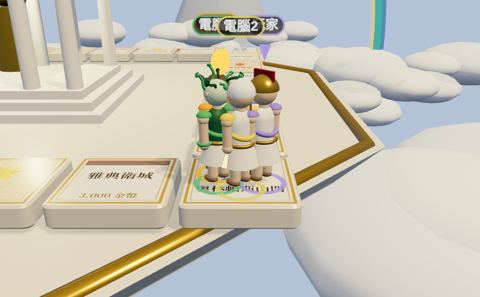
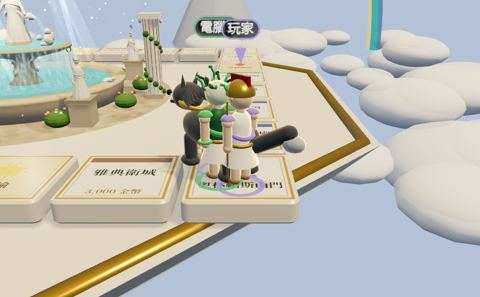
諸神黃昏中央改成噴泉廣場：倒水女神、小天使、雕像群、白鴿、精靈粉塵、光束
Claude-Session: https://claude.ai/code/session_01Nq2RpgbLLAoTqsaarniSan

diff --git a/js/games/mono-art.js b/js/games/mono-art.js
@@ -342,19 +342,124 @@
       for (let k = 0; k < (q.high ? 90 : 45); k++) { const a = rnd(0, 6.28), d = rnd(9, 40); const c = add(new T.SphereGeometry(rnd(1.5, 3.5), 12, 10), cloudM, Math.cos(a) * d, rnd(-4.5, -2.2), Math.sin(a) * d, false); c.scale.y = 0.45; }
       // 遠方神山
       for (let k = 0; k < 7; k++) { const a = k / 7 * Math.PI * 2 + 0.3, d = rnd(34, 42), h = rnd(10, 18); add(new T.ConeGeometry(rnd(5, 8), h, 7), M('#b9c3d6', { roughness: 1 }), Math.cos(a) * d, h / 2 - 4, Math.sin(a) * d, false); add(new T.ConeGeometry(2, 3, 7), M('#ffffff'), Math.cos(a) * d, h - 5.2, Math.sin(a) * d, false); }
-      // 中央：奧林帕斯神殿＋金色神像
-      const marble = M('#f4f0e6', { roughness: 0.3 }), gold = M('#d4af37', { metalness: 0.9, roughness: 0.2 });
-      for (let s = 0; s < 3; s++) add(new T.BoxGeometry(5 - s * 0.5, 0.18, 4 - s * 0.5), marble, 0, -0.27 + s * 0.18, 0);
-      for (let k = 0; k < 10; k++) { const x = -1.8 + (k % 5) * 0.9, z = k < 5 ? -1.3 : 1.3; add(new T.CylinderGeometry(0.15, 0.17, 2.4, 14), marble, x, 1.4, z); }
-      add(new T.BoxGeometry(4.3, 0.25, 3.2), marble, 0, 2.7, 0);
-      const ped = add(new T.CylinderGeometry(0.01, 2.6, 0.9, 4), marble, 0, 3.25, 0); ped.rotation.y = Math.PI / 4; ped.scale.z = 0.62;
-      const st = new T.Group(); st.position.set(0, 0.25, 0); scene.add(st);
-      const body = new T.Mesh(new T.CylinderGeometry(0.28, 0.4, 1.4, 12), gold); body.position.y = 0.8; st.add(body);
-      const head = new T.Mesh(new T.SphereGeometry(0.22, 16, 12), gold); head.position.y = 1.7; st.add(head);
-      const arm = new T.Mesh(new T.CylinderGeometry(0.07, 0.07, 1.0, 8), gold); arm.position.set(0.38, 1.6, 0); arm.rotation.z = -0.5; st.add(arm);
-      const bolt = new T.Mesh(new T.ConeGeometry(0.08, 0.6, 4), new T.MeshBasicMaterial({ color: '#fff4b0' })); bolt.position.set(0.66, 2.15, 0); st.add(bolt);
-      const L = new T.PointLight('#ffe9a8', 12, 9, 1.4); L.position.set(0, 2.3, 0); scene.add(L);
-      upd.push((t) => { L.intensity = 10 + Math.sin(t * 2) * 2; bolt.material.color.setHSL(0.14, 1, 0.75 + Math.sin(t * 6) * 0.1); });
+      // 中央：林間噴泉廣場（女神雕像倒水、小天使、雕像群、白鴿、精靈粉塵）
+      const marble = M('#f3eee2', { roughness: 0.45 }), stone = M('#cbbb9c', { roughness: 0.85 }), aged = M('#a99a7e', { roughness: 0.9 });
+      // 鋪石地＋斑駁光影
+      { const [c, g2] = cvs(512); g2.fillStyle = '#b9ab90'; g2.fillRect(0, 0, 512, 512);
+        for (let r = 0; r < 12; r++) for (let k = 0; k < 6 + r * 6; k++) { const a0 = k / (6 + r * 6) * 6.283, rr = r * 21 + 6; g2.fillStyle = `hsl(38,${rnd(14, 24)}%,${rnd(58, 70)}%)`; g2.beginPath(); g2.arc(256 + Math.cos(a0) * rr, 256 + Math.sin(a0) * rr, rnd(8, 11), 0, 7); g2.fill(); }
+        for (let k = 0; k < 70; k++) { g2.fillStyle = `rgba(255,246,210,${rnd(0.12, 0.3)})`; g2.beginPath(); g2.ellipse(rnd(0, 512), rnd(0, 512), rnd(6, 26), rnd(4, 14), rnd(0, 3), 0, 7); g2.fill(); }
+        for (let k = 0; k < 40; k++) { g2.fillStyle = `rgba(60,70,40,${rnd(0.08, 0.18)})`; g2.beginPath(); g2.ellipse(rnd(0, 512), rnd(0, 512), rnd(10, 40), rnd(6, 20), rnd(0, 3), 0, 7); g2.fill(); }
+        const fl = add(new T.CircleGeometry(3.5, 48), M('#ffffff', { map: tex(T, c), roughness: 0.9 }), 0, -0.36, 0, false); fl.rotation.x = -Math.PI / 2; fl.receiveShadow = q.high; }
+      // 水池：外緣石圈＋青綠水面（水紋會流動）
+      const [wc, wg] = cvs(256); const wt = tex(T, wc, 2); wt.wrapS = wt.wrapT = T.RepeatWrapping;
+      { wg.fillStyle = '#2fb3bf'; wg.fillRect(0, 0, 256, 256); for (let k = 0; k < 160; k++) { wg.strokeStyle = `rgba(210,255,250,${rnd(0.15, 0.45)})`; wg.lineWidth = rnd(1, 2.5); wg.beginPath(); const x = rnd(0, 256), y = rnd(0, 256), r = rnd(6, 20); wg.arc(x, y, r, rnd(0, 3), rnd(3, 6)); wg.stroke(); } wt.needsUpdate = true; }
+      const rimG = new T.LatheGeometry([[2.0, -0.36], [2.25, -0.36], [2.3, -0.05], [2.36, 0.04], [2.36, 0.12], [2.0, 0.12], [2.0, -0.36]].map(([x, y]) => new T.Vector2(x, y)), 64);
+      add(rimG, stone, 0, 0, 0);
+      const pool = add(new T.CircleGeometry(2.02, 48), new T.MeshStandardMaterial({ color: '#ffffff', map: wt, roughness: 0.08, metalness: 0.2, emissive: '#1a8a94', emissiveIntensity: 0.35, transparent: true, opacity: 0.93 }), 0, 0.02, 0, false); pool.rotation.x = -Math.PI / 2;
+      // 中柱＋上層水盆（有雕花托架）
+      const stemG = new T.LatheGeometry([[0, -0.3], [0.5, -0.3], [0.42, 0], [0.26, 0.15], [0.22, 0.5], [0.3, 0.62], [0.95, 0.78], [1.15, 0.86], [1.15, 0.94], [0, 0.94]].map(([x, y]) => new T.Vector2(x, y)), 48);
+      add(stemG, aged, 0, 0, 0);
+      for (let k = 0; k < 4; k++) { const a0 = k / 4 * 6.283 + 0.4; const br = add(new T.TorusGeometry(0.16, 0.05, 8, 12, Math.PI), aged, Math.cos(a0) * 0.36, 0.42, Math.sin(a0) * 0.36); br.rotation.y = -a0; br.rotation.z = Math.PI / 2; }
+      const bowlW = add(new T.CircleGeometry(1.08, 40), new T.MeshStandardMaterial({ color: '#ffffff', map: wt, roughness: 0.08, emissive: '#1a8a94', emissiveIntensity: 0.4 }), 0, 0.95, 0, false); bowlW.rotation.x = -Math.PI / 2;
+      // 雕像：披袍人形
+      const gold = M('#d4af37', { metalness: 0.9, roughness: 0.25 });
+      const figure = (sc, pose) => {
+        const f = new T.Group(); f.scale.setScalar(sc);
+        const robe = new T.Mesh(new T.LatheGeometry([[0.26, 0], [0.24, 0.12], [0.19, 0.42], [0.13, 0.62], [0.15, 0.76], [0.16, 0.88], [0.11, 0.97], [0.05, 1.02]].map(([x, y]) => new T.Vector2(x, y)), 44), marble); f.add(robe);
+        { const pa = robe.geometry.attributes.position; for (let v = 0; v < pa.count; v++) { const x = pa.getX(v), y = pa.getY(v), z = pa.getZ(v), an = Math.atan2(z, x), w = 1 + Math.max(0, 0.75 - y) * 0.12 * Math.sin(an * 11 + y * 2); pa.setX(v, x * w); pa.setZ(v, z * w); } robe.geometry.computeVertexNormals(); }
+        const drape = new T.Mesh(new T.TorusGeometry(0.2, 0.035, 6, 18, Math.PI * 1.1), marble); drape.position.set(0, 0.55, 0.02); drape.rotation.set(0.25, 0, -0.6); f.add(drape);
+        const sash = new T.Mesh(new T.TorusGeometry(0.16, 0.025, 6, 16), marble); sash.position.y = 0.8; sash.rotation.set(Math.PI / 2 - 0.5, 0, 0); f.add(sash);
+        const nk = new T.Mesh(new T.CylinderGeometry(0.035, 0.045, 0.08, 8), marble); nk.position.y = 1.05; f.add(nk);
+        const hd = new T.Mesh(new T.SphereGeometry(0.085, 16, 12), marble); hd.position.y = 1.15; hd.scale.set(0.9, 1.1, 0.95); f.add(hd);
+        const hair = new T.Mesh(new T.SphereGeometry(0.09, 14, 10, 0, 6.283, 0, 1.6), marble); hair.position.set(0, 1.17, -0.012); f.add(hair);
+        const bun = new T.Mesh(new T.SphereGeometry(0.045, 10, 8), marble); bun.position.set(0, 1.2, -0.085); f.add(bun);
+        const nose = new T.Mesh(new T.ConeGeometry(0.014, 0.04, 5), marble); nose.position.set(0, 1.15, 0.085); nose.rotation.x = Math.PI / 2 + 0.3; f.add(nose);
+        const wreath = new T.Mesh(new T.TorusGeometry(0.088, 0.012, 6, 20), gold); wreath.position.set(0, 1.2, -0.01); wreath.rotation.x = Math.PI / 2 - 0.25; f.add(wreath);
+        const arm = (side, ex, ey, ez) => { const sh = new T.Vector3(side * 0.15, 0.95, 0), el = new T.Vector3(ex, ey, ez); const len = sh.distanceTo(el); const c = new T.Mesh(new T.CapsuleGeometry(0.035, len, 4, 8), marble); c.position.copy(sh).add(el).multiplyScalar(0.5); c.quaternion.setFromUnitVectors(new T.Vector3(0, 1, 0), el.clone().sub(sh).normalize()); f.add(c); return el; };
+        const out = [];
+        if (pose === 'pour') { [-1, 1].forEach(sd => { const h = arm(sd, sd * 0.3, 0.66, 0.12); const urn = new T.Mesh(new T.LatheGeometry([[0, 0], [0.06, 0.02], [0.085, 0.08], [0.05, 0.16], [0.035, 0.19], [0.055, 0.22]].map(([x, y]) => new T.Vector2(x, y)), 16), marble); urn.position.set(h.x + sd * 0.02, h.y - 0.02, h.z); urn.rotation.z = sd * -1.9; f.add(urn); out.push(new T.Vector3(h.x + sd * 0.22, h.y - 0.08, h.z)); }); }
+        else if (pose === 'raise') { arm(1, 0.16, 1.45, 0.05); arm(-1, -0.25, 0.6, 0.12); const wr = new T.Mesh(new T.TorusGeometry(0.07, 0.015, 6, 14), gold); wr.position.set(0.16, 1.52, 0.05); f.add(wr); }
+        else if (pose === 'lyre') { arm(1, 0.1, 0.78, 0.2); arm(-1, -0.1, 0.8, 0.2); const ly = new T.Mesh(new T.TorusGeometry(0.09, 0.012, 6, 14, Math.PI * 1.3), gold); ly.position.set(0, 0.85, 0.23); ly.rotation.z = Math.PI * 1.35; f.add(ly); }
+        else { arm(1, 0.12, 0.6, 0.1); arm(-1, -0.1, 0.62, 0.1); const bk = new T.Mesh(new T.BoxGeometry(0.16, 0.1, 0.04), aged); bk.position.set(0, 0.64, 0.14); f.add(bk); }
+        f.traverse(m => { if (m.isMesh && q.high) { m.castShadow = true; m.receiveShadow = true; } });
+        return { f, out };
+      };
+      const god = figure(1.05, 'pour'); god.f.position.set(0, 0.94, 0); scene.add(god.f);
+      const godBase = add(new T.CylinderGeometry(0.28, 0.34, 0.1, 16), aged, 0, 0.97, 0);
+      void godBase;
+      // 兩個跪坐的小天使在水盆邊抱著水瓶倒水
+      const kids = [];
+      [-1, 1].forEach(sd => { const k = new T.Group(); k.position.set(sd * 0.82, 0.94, 0.25); k.rotation.y = sd * -0.9; scene.add(k);
+        const bd = new T.Mesh(new T.SphereGeometry(0.12, 12, 10), marble); bd.position.y = 0.14; bd.scale.set(1, 1.15, 0.9); k.add(bd);
+        const lg = new T.Mesh(new T.CapsuleGeometry(0.05, 0.14, 4, 8), marble); lg.position.set(0, 0.05, 0.08); lg.rotation.x = Math.PI / 2; k.add(lg);
+        const hd = new T.Mesh(new T.SphereGeometry(0.075, 12, 10), marble); hd.position.y = 0.32; k.add(hd);
+        [-1, 1].forEach(w => { const wi = new T.Mesh(new T.SphereGeometry(0.09, 10, 6, 0, 3.14), marble); wi.position.set(w * 0.08, 0.22, -0.08); wi.scale.set(0.5, 1.1, 0.3); wi.rotation.y = w * 0.6; k.add(wi); });
+        const vs = new T.Mesh(new T.LatheGeometry([[0, 0], [0.05, 0.02], [0.065, 0.07], [0.035, 0.13], [0.04, 0.15]].map(([x, y]) => new T.Vector2(x, y)), 10), marble); vs.position.set(0, 0.22, 0.13); vs.rotation.x = 1.9; k.add(vs);
+        k.traverse(m => { if (m.isMesh && q.high) m.castShadow = true; }); kids.push(k); });
+      // 周圍雕像群：四座台座上不同姿態的雕像＋兩根愛奧尼克柱
+      [['raise', 0.785], ['lyre', 2.356], ['book', 3.927], ['raise', 5.498]].forEach(([pose, a0], i) => {
+        const x = Math.cos(a0) * 3.0, z = Math.sin(a0) * 3.0;
+        add(new T.BoxGeometry(0.42, 0.5, 0.42), stone, x, -0.11, z); add(new T.BoxGeometry(0.5, 0.06, 0.5), aged, x, 0.17, z);
+        const s2 = figure(0.62, pose); s2.f.position.set(x, 0.2, z); s2.f.lookAt(0, 0.2, 0); scene.add(s2.f); void i;
+      });
+      [0, Math.PI].forEach(a0 => { const x = Math.cos(a0) * 3.15, z = Math.sin(a0) * 3.15;
+        add(new T.CylinderGeometry(0.17, 0.19, 1.9, 16), marble, x, 0.6, z);
+        for (let k = 0; k < 12; k++) { const fl = add(new T.BoxGeometry(0.02, 1.85, 0.02), aged, x + Math.cos(k / 12 * 6.283) * 0.175, 0.6, z + Math.sin(k / 12 * 6.283) * 0.175, false); void fl; }
+        add(new T.BoxGeometry(0.5, 0.1, 0.5), marble, x, 1.6, z); [-1, 1].forEach(sd => { const vo = add(new T.TorusGeometry(0.07, 0.03, 6, 12), marble, x + sd * 0.24, 1.52, z); vo.rotation.y = Math.PI / 2; });
+        add(new T.BoxGeometry(0.4, 0.12, 0.4), stone, x, -0.3, z);
+        const ivy = M('#4f7a34', { roughness: 1, flatShading: true }); for (let k = 0; k < 14; k++) { const u = k / 14; add(new T.SphereGeometry(rnd(0.05, 0.08), 6, 4), ivy, x + Math.cos(u * 9) * 0.19, -0.2 + u * 1.5, z + Math.sin(u * 9) * 0.19, false); } });
+      // 花壇與灌木
+      const leaf = M('#5f8a3a', { roughness: 1, flatShading: true }), petals = ['#e8455a', '#ff8fa8', '#ffffff', '#f6d36b'].map(c => M(c, { roughness: 0.8 }));
+      for (let k = 0; k < 10; k++) { const a0 = k / 10 * 6.283 + 0.31; if (Math.abs(Math.cos(a0)) > 0.97) continue; const x = Math.cos(a0) * 2.75, z = Math.sin(a0) * 2.75; const bu = add(new T.SphereGeometry(0.26, 10, 8), leaf, x, -0.22, z); bu.scale.y = 0.65;
+        for (let j = 0; j < 7; j++) add(new T.SphereGeometry(0.035, 6, 4), petals[(k + j) % 4], x + rnd(-0.2, 0.2), -0.1 + rnd(0, 0.06), z + rnd(-0.2, 0.2), false); }
+      // 水流：女神雙瓶、小天使水瓶的拋物線水柱＋水盆邊緣的溢流水簾（流動紋理）
+      const [sc3, sg3] = cvs(32, 128); sg3.clearRect(0, 0, 32, 128); sg3.fillStyle = 'rgba(200,245,255,0.35)'; sg3.fillRect(0, 0, 32, 128); for (let k = 0; k < 90; k++) { const x = rnd(0, 32), y = rnd(0, 128), l = rnd(14, 50), gr = sg3.createLinearGradient(0, y, 0, y + l); gr.addColorStop(0, 'rgba(255,255,255,0)'); gr.addColorStop(0.5, `rgba(255,255,255,${rnd(0.5, 1)})`); gr.addColorStop(1, 'rgba(255,255,255,0)'); sg3.fillStyle = gr; sg3.fillRect(x, y, rnd(0.8, 2), l); }
+      const flowT = tex(T, sc3); flowT.wrapS = flowT.wrapT = T.RepeatWrapping;
+      const flowM = new T.MeshBasicMaterial({ map: flowT, color: '#9fe8ff', transparent: true, opacity: 0.95, depthWrite: false, side: T.DoubleSide });
+      const arcTube = (o, v, ground, r) => { const pts = []; for (let k = 0; k <= 16; k++) { const tt = k / 16 * 0.6; const y = o.y + v.y * tt - 4.9 * tt * tt; pts.push(new T.Vector3(o.x + v.x * tt, Math.max(ground, y), o.z + v.z * tt)); if (y < ground) break; }
+        const tb = new T.Mesh(new T.TubeGeometry(new T.CatmullRomCurve3(pts), 24, r, 6, false), flowM); scene.add(tb); return pts[pts.length - 1]; };
+      const splash = [];
+      god.f.updateMatrixWorld(true);
+      god.out.forEach(pp => { const w = god.f.localToWorld(pp.clone()); splash.push(arcTube(w, new T.Vector3(Math.sign(w.x) * 0.5, 0.25, 0.08), 0.95, 0.045)); });
+      kids.forEach(k => { k.updateMatrixWorld(true); const w = k.localToWorld(new T.Vector3(0, 0.2, 0.25)); const d = k.localToWorld(new T.Vector3(0, 0, 1)).sub(k.position).normalize(); splash.push(arcTube(w, d.multiplyScalar(0.55).setY(0.2), 0.95, 0.032)); });
+      const curtain = add(new T.CylinderGeometry(1.17, 1.3, 0.9, 64, 1, true), new T.MeshBasicMaterial({ map: flowT, color: '#a8ecff', transparent: true, opacity: 0.85, depthWrite: false, side: T.DoubleSide }), 0, 0.47, 0, false);
+      curtain.material.map = flowT.clone(); curtain.material.map.repeat.set(10, 1); curtain.material.map.needsUpdate = true;
+      const dropM = new T.MeshBasicMaterial({ color: '#f0ffff', transparent: true, opacity: 0.8, depthWrite: false }), drops = [];
+      splash.forEach(sp => { for (let k = 0; k < 5; k++) { const m = add(new T.SphereGeometry(0.014, 5, 4), dropM, sp.x, sp.y, sp.z, false); m.userData = { o: sp, a: rnd(0, 6.28), v: rnd(0.3, 0.6), ph: rnd(0, 1) }; drops.push(m); } });
+      // 水面漣漪
+      const rips = []; for (let k = 0; k < 6; k++) { const r = add(new T.RingGeometry(0.9, 0.94, 40), new T.MeshBasicMaterial({ color: '#ffffff', transparent: true, opacity: 0.4, depthWrite: false }), 0, 0.03, 0, false); r.rotation.x = -Math.PI / 2; r.userData.o = k / 6; rips.push(r); }
+      // 光束（林間灑下的光）
+      const [bc, bg2] = cvs(32, 128); const grd = bg2.createLinearGradient(0, 0, 0, 128); grd.addColorStop(0, 'rgba(255,248,214,0)'); grd.addColorStop(0.35, 'rgba(255,244,200,0.22)'); grd.addColorStop(1, 'rgba(255,248,214,0)'); bg2.fillStyle = grd; bg2.fillRect(0, 0, 32, 128);
+      const beamM = new T.MeshBasicMaterial({ map: tex(T, bc), transparent: true, blending: T.AdditiveBlending, depthWrite: false, side: T.DoubleSide });
+      const beams = []; [[-0.8, 0.3, 0.5], [0.6, -0.5, 0.35], [1.4, 0.8, 0.28]].forEach(([x, z, w]) => { for (let r = 0; r < 2; r++) { const b = add(new T.PlaneGeometry(w, 7), beamM.clone(), x, 2.6, z, false); b.rotation.set(0, r * Math.PI / 2, 0.32); beams.push(b); } });
+      // 精靈粉塵：會閃爍、慢慢往上飄的金綠光點
+      const [sc2, sg] = cvs(32); const rg2 = sg.createRadialGradient(16, 16, 0, 16, 16, 16); rg2.addColorStop(0, 'rgba(255,255,255,1)'); rg2.addColorStop(0.25, 'rgba(255,250,200,0.8)'); rg2.addColorStop(1, 'rgba(255,240,160,0)'); sg.fillStyle = rg2; sg.fillRect(0, 0, 32, 32);
+      const sprite = tex(T, sc2), dust = [];
+      [['#ffd86a', 0], ['#b8ff9a', 2.1], ['#ffe9b0', 4.2]].forEach(([col, ph]) => {
+        const n = q.high ? 40 : 20, pos = new Float32Array(n * 3), base = [];
+        for (let k = 0; k < n; k++) { const a0 = rnd(0, 6.283), d = Math.sqrt(Math.random()) * 3.3; base.push([Math.cos(a0) * d, rnd(0, 3), Math.sin(a0) * d, rnd(0.15, 0.4), rnd(0, 6)]); }
+        const geo = new T.BufferGeometry(); geo.setAttribute('position', new T.BufferAttribute(pos, 3));
+        const pt = new T.Points(geo, new T.PointsMaterial({ color: col, map: sprite, size: 0.08, transparent: true, blending: T.AdditiveBlending, depthWrite: false })); scene.add(pt);
+        dust.push({ pt, pos, base, ph });
+      });
+      // 白鴿：繞著噴泉盤旋，翅膀拍動；另有兩隻停在池邊
+      const doveM = M('#fbfbf6', { roughness: 0.7 }), beakM = M('#e09a6a');
+      const dove = () => { const d = new T.Group(); const b = new T.Mesh(new T.SphereGeometry(0.07, 10, 8), doveM); b.scale.set(0.8, 0.8, 1.6); d.add(b); const h = new T.Mesh(new T.SphereGeometry(0.045, 10, 8), doveM); h.position.set(0, 0.04, 0.11); d.add(h); const bk = new T.Mesh(new T.ConeGeometry(0.012, 0.035, 5), beakM); bk.position.set(0, 0.035, 0.16); bk.rotation.x = Math.PI / 2; d.add(bk); const tl = new T.Mesh(new T.ConeGeometry(0.05, 0.12, 4), doveM); tl.position.set(0, 0, -0.14); tl.rotation.x = -Math.PI / 2; tl.scale.y = 1; tl.scale.x = 1.4; d.add(tl);
+        const wings = [-1, 1].map(sd => { const pv = new T.Group(); pv.position.set(sd * 0.04, 0.02, 0); const w = new T.Mesh(new T.PlaneGeometry(0.22, 0.11), new T.MeshStandardMaterial({ color: '#ffffff', side: T.DoubleSide, roughness: 0.7 })); w.position.x = sd * 0.11; w.rotation.x = -Math.PI / 2; pv.add(w); d.add(pv); return pv; }); d.userData.w = wings; scene.add(d); return d; };
+      const flock = []; for (let k = 0; k < (q.high ? 7 : 4); k++) { const d = dove(); d.userData.r = rnd(1.6, 3.2); d.userData.h = rnd(2.2, 3.6); d.userData.s = rnd(0.35, 0.55) * (k % 2 ? 1 : -1); d.userData.o = rnd(0, 6.28); flock.push(d); }
+      const perched = [[2.2, 0.13, 0.5, 1.2], [-1.9, 0.13, -1.15, -2.1]].map(([x, y, z, ry]) => { const d = dove(); d.position.set(x, y + 0.06, z); d.rotation.y = ry; d.userData.w.forEach(w => { w.rotation.z = 0; w.children[0].scale.set(0.6, 1, 1); }); return d; });
+      const L = new T.PointLight('#fff1c8', 6, 8, 1.6); L.position.set(0, 2.6, 0.6); scene.add(L);
+      upd.push((t) => {
+        wt.offset.set(t * 0.02, t * 0.013);
+        flowT.offset.y = t * 1.6; curtain.material.map.offset.y = t * 0.9;
+        drops.forEach(m => { const u = m.userData, tt = ((t * 1.4 + u.ph) % 1) * 0.3; m.position.set(u.o.x + Math.cos(u.a) * u.v * tt, u.o.y + 1.2 * tt - 4.9 * tt * tt, u.o.z + Math.sin(u.a) * u.v * tt); });
+        rips.forEach(r => { const p = (t * 0.35 + r.userData.o) % 1; const R = 1.2 + p * 0.8; r.scale.setScalar(R); r.material.opacity = 0.35 * (1 - p); });
+        beams.forEach((b, k) => { b.material.opacity = 0.6 + Math.sin(t * 0.6 + k) * 0.3; });
+        dust.forEach(D => { const { pos, base } = D; for (let k = 0; k < base.length; k++) { const [x, y, z, sp, o] = base[k]; const yy = (y + t * sp) % 3.2; pos[k * 3] = x + Math.sin(t * 0.7 + o) * 0.25; pos[k * 3 + 1] = yy - 0.1; pos[k * 3 + 2] = z + Math.cos(t * 0.6 + o) * 0.25; } D.pt.geometry.attributes.position.needsUpdate = true; D.pt.material.opacity = 0.45 + Math.sin(t * 2.3 + D.ph) * 0.45; D.pt.material.size = 0.06 + (Math.sin(t * 3.1 + D.ph) * 0.5 + 0.5) * 0.05; });
+        flock.forEach((d, k) => { const u = d.userData, a0 = u.o + t * u.s; d.position.set(Math.cos(a0) * u.r, u.h + Math.sin(t * 0.9 + k) * 0.25, Math.sin(a0) * u.r); d.rotation.y = -a0 + (u.s > 0 ? 0 : Math.PI); const fl = Math.sin(t * 11 + k * 1.7) * 0.8; d.userData.w[0].rotation.z = -fl; d.userData.w[1].rotation.z = fl; });
+        perched.forEach((d, k) => { const hop = Math.max(0, Math.sin(t * 0.8 + k * 2.5)) ** 20; d.position.y = 0.19 + hop * 0.12; d.children[1].position.y = 0.04 + Math.max(0, Math.sin(t * 3 + k)) * 0.015; });
+        L.intensity = 5.5 + Math.sin(t * 1.3) * 0.6;
+      });
       // 彩虹橋
       const [rc, rg] = cvs(8, 128); ['#e63946', '#f4a261', '#e9c46a', '#2a9d8f', '#457b9d', '#7b2cbf'].forEach((col, k) => { rg.fillStyle = col; rg.fillRect(0, k * 21, 8, 22); });
       const rb = add(new T.TorusGeometry(9, 0.35, 6, 64, Math.PI * 0.55), new T.MeshBasicMaterial({ map: tex(T, rc), transparent: true, opacity: 0.85 }), 6, -1, -6, false); rb.rotation.set(0, Math.PI / 4, 0);

diff --git a/index.html b/index.html
@@ -6,7 +6,7 @@
 <meta name="theme-color" content="#14382b">
 <meta name="apple-mobile-web-app-capable" content="yes">
 <title>牌桌｜線上開房</title>
-<link rel="stylesheet" href="style.css?v=11171556">
+<link rel="stylesheet" href="style.css?v=11171610">
 </head>
 <body data-skin="nebula">
 <div id="audios" hidden></div>
@@ -77,28 +77,28 @@
 </section>
 <div id="toast" class="toast" hidden></div>
 
-<script src="vendor/peerjs.min.js?v=11171556"></script>
-<script src="js/config.js?v=11171556"></script>
-<script src="js/net.js?v=11171556"></script>
-<script src="js/games/fx.js?v=11171556"></script>
-<script src="js/games/common.js?v=11171556"></script>
-<script src="js/games/mahjong.js?v=11171556"></script>
-<script src="js/games/bigtwo.js?v=11171556"></script>
-<script src="js/games/slap.js?v=11171556"></script>
-<script src="js/games/rummi.js?v=11171556"></script>
-<script src="js/games/dice.js?v=11171556"></script>
-<script src="js/games/draw.js?v=11171556"></script>
-<script src="js/games/mono-themes.js?v=11171556"></script>
-<script src="js/games/mono-quiz.js?v=11171556"></script>
-<script src="js/games/mono-horror.js?v=11171556"></script>
-<script src="js/games/mono-magicfx.js?v=11171556"></script>
-<script src="js/games/mono-eggs.js?v=11171556"></script>
-  <script src="js/games/mono-rules.js?v=11171556"></script>
-<script src="js/games/mono-art.js?v=11171556"></script>
-<script src="js/games/mono-chars.js?v=11171556"></script>
-<script src="js/games/mono3d.js?v=11171556"></script>
-<script src="js/games/monopoly.js?v=11171556"></script>
-<script src="js/room.js?v=11171556"></script>
-<script src="js/app.js?v=11171556"></script>
+<script src="vendor/peerjs.min.js?v=11171610"></script>
+<script src="js/config.js?v=11171610"></script>
+<script src="js/net.js?v=11171610"></script>
+<script src="js/games/fx.js?v=11171610"></script>
+<script src="js/games/common.js?v=11171610"></script>
+<script src="js/games/mahjong.js?v=11171610"></script>
+<script src="js/games/bigtwo.js?v=11171610"></script>
+<script src="js/games/slap.js?v=11171610"></script>
+<script src="js/games/rummi.js?v=11171610"></script>
+<script src="js/games/dice.js?v=11171610"></script>
+<script src="js/games/draw.js?v=11171610"></script>
+<script src="js/games/mono-themes.js?v=11171610"></script>
+<script src="js/games/mono-quiz.js?v=11171610"></script>
+<script src="js/games/mono-horror.js?v=11171610"></script>
+<script src="js/games/mono-magicfx.js?v=11171610"></script>
+<script src="js/games/mono-eggs.js?v=11171610"></script>
+  <script src="js/games/mono-rules.js?v=11171610"></script>
+<script src="js/games/mono-art.js?v=11171610"></script>
+<script src="js/games/mono-chars.js?v=11171610"></script>
+<script src="js/games/mono3d.js?v=11171610"></script>
+<script src="js/games/monopoly.js?v=11171610"></script>
+<script src="js/room.js?v=11171610"></script>
+<script src="js/app.js?v=11171610"></script>
 </body>
 </html>
